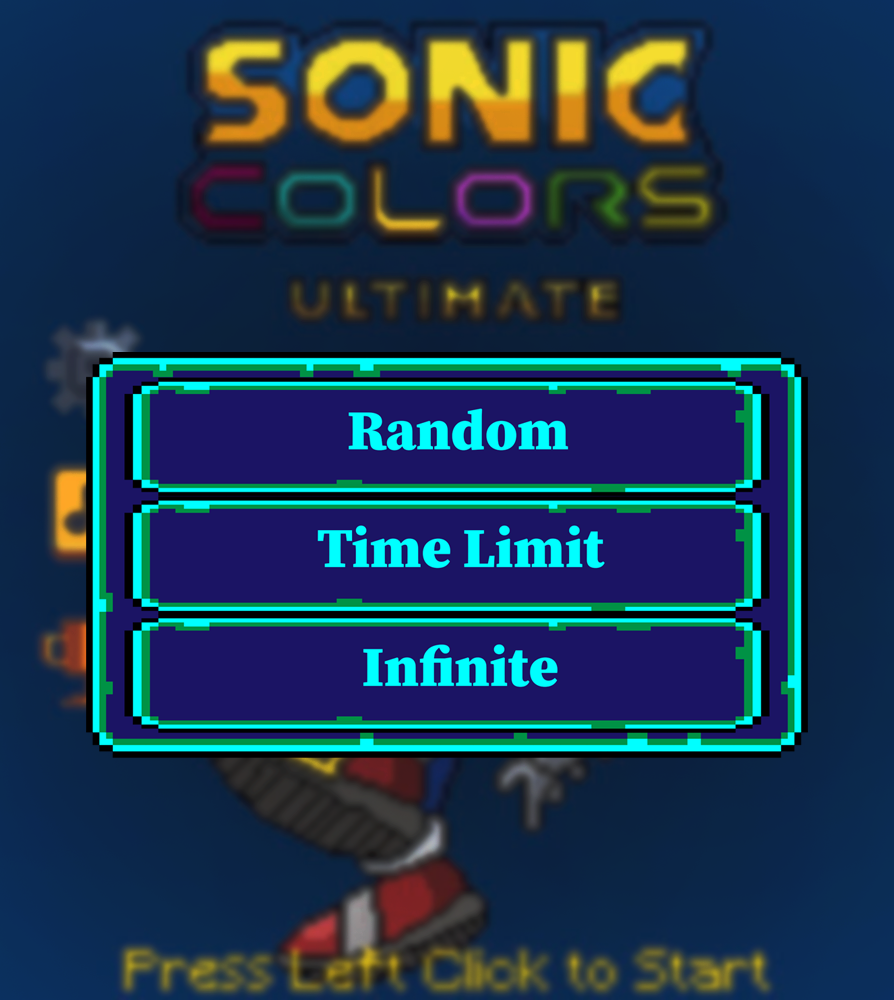
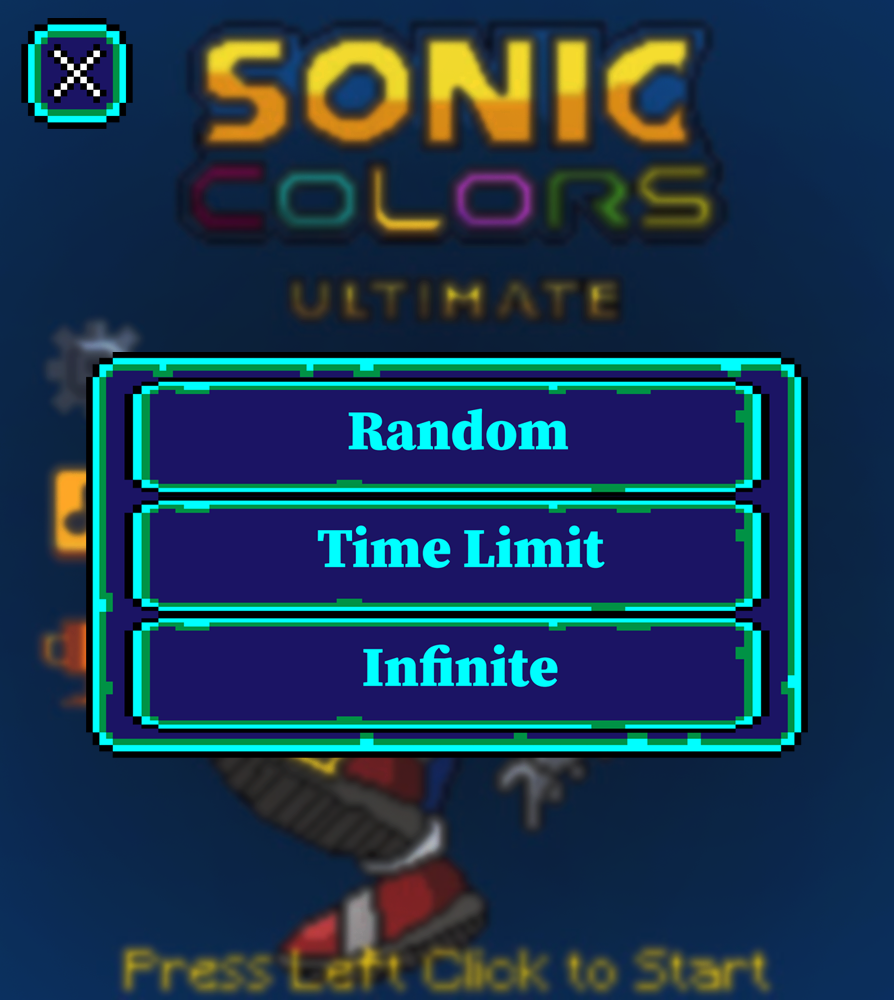
Adding Game mode menu.

Changed region(s): [[0.0, 0.0, 0.151, 0.155]]

diff --git a/main.cpp b/main.cpp
@@ -17,7 +17,7 @@
 #define HEIGHT 1000
 #define DotRadius 3
 #define DotDistance 7
-const int FONT_SIZE = 24;
+const int FONT_SIZE = 50;
 
 /// ******************* Changeable Constraints ****************
 int ballRadius = WIDTH / 30;
@@ -25,7 +25,7 @@ int FirstRowY ;
 int leveNumber = 5;
 double shootingBallSpeed = 25;
 int NUMROWS = 1;
-int numberOfTexture = 3;
+int numberOfTexture = 5;
 int impactUp = -6;
 double downSpeed = 0.1;
 int numberBall;
@@ -73,7 +73,8 @@ struct Node{
 enum GameMode {
     Random,
     TimeLimit,
-    Infinite
+    Infinite,
+    Menu
 };
 
 /// -------------------- Global struct Variables --------------------------------------------
@@ -106,7 +107,7 @@ SDL_Texture * bomb;
 Color Dot = {50, 70 , 120, 255};
 Color BackGround = {10, 20, 30, 220};
 std::unordered_map<SDL_Texture*, Color*> existingColor;
-
+std::string Username = "";
 
 SDL_Texture* gTextTexture = nullptr;
 //////////////////////////////////////////////////////////////////////////////////////
@@ -139,6 +140,7 @@ void renderText(SDL_Renderer* renderer, TTF_Font* gFont, const std::string& text
 void settingDisplay(SDL_Renderer * renderer, SDL_Window *window);
 bool isXandYInRect(int x, int y, double min_x, double min_y, double max_x, double max_y);
 Node * bombRadius();
+GameMode selectGameMode(SDL_Renderer * renderer, SDL_Window * window, TTF_Font * font);
 // ============= Implementation ===================================
 int main(int argc, char* argv[]) {
 //    srand(1);
@@ -184,8 +186,9 @@ int main(int argc, char* argv[]) {
                 if (event.button.button == SDL_BUTTON_LEFT) {
                     SDL_GetMouseState(&mouse_x, &mouse_y);
                     if ( mouse_y > (.94)*(double)(HEIGHT) && mouse_x > (0.12) * (double)(WIDTH) && mouse_x < (0.8) * (double)WIDTH){
-
-                        startGame(renderer, window, Random);
+                        GameMode sel =selectGameMode(renderer, window, gFont);
+                        if ( sel == Menu ) continue;
+                        startGame(renderer, window, sel);
                     } else if ( mouse_y >= (0.47)*(double)(HEIGHT) && mouse_y <= (0.56)*(double)(HEIGHT) && mouse_x <= (0.16)*(double)(WIDTH) && mouse_x >= (0.06)*(double)(WIDTH)){
                         isMusicStop = !isMusicStop;
                         if (!isMusicStop) {
@@ -200,15 +203,6 @@ int main(int argc, char* argv[]) {
                 }
             } else if (event.type == SDL_KEYUP && event.key.keysym.sym == SDLK_ESCAPE) {
                 quit = true;
-            }else if (event.type == SDL_KEYDOWN) {
-                if (event.key.keysym.sym == SDLK_RETURN) {
-                    std::cout << "Entered text: " << inputText << std::endl;
-                    inputText = "";
-                } else if (event.key.keysym.sym == SDLK_BACKSPACE && !inputText.empty()) {
-                    inputText.pop_back();
-                } else if ((event.key.keysym.sym >= SDLK_a && event.key.keysym.sym <= SDLK_z) || (event.key.keysym.sym >= SDLK_0 && event.key.keysym.sym <= SDLK_9)) {
-                    inputText += static_cast<char>(event.key.keysym.sym);
-                }
             }
         }
         // Play music if it's not playing
@@ -219,7 +213,6 @@ int main(int argc, char* argv[]) {
         SDL_SetRenderDrawColor(renderer, 255, 255, 255, 255);
         SDL_RenderClear(renderer);
         SDL_RenderCopy(renderer, menuBack, nullptr, &back);
-        renderText(renderer, gFont, "Enter text: " + inputText, 10, 10);
         addBarred(renderer, window, isMusicStop);
         SDL_RenderPresent(renderer);
     }
@@ -230,6 +223,87 @@ int main(int argc, char* argv[]) {
     Mix_CloseAudio();
     SDL_Quit();
     return 0;
+}
+GameMode selectGameMode(SDL_Renderer * renderer, SDL_Window * window, TTF_Font * font){
+    SDL_Texture* modeSel[2];
+    modeSel[0] = loadTexture(renderer, "..\\StartGame\\GameModeP.png");
+    if (modeSel == nullptr){
+        SDL_DestroyRenderer(renderer);
+        SDL_DestroyWindow(window);
+        IMG_Quit();
+        SDL_Quit();
+        exit(1);
+    }
+    modeSel[1] = loadTexture(renderer, "..\\StartGame\\username.png");
+    if (modeSel == nullptr){
+        SDL_DestroyRenderer(renderer);
+        SDL_DestroyWindow(window);
+        IMG_Quit();
+        SDL_Quit();
+        exit(1);
+    }
+    SDL_Rect back = {0, 0, WIDTH, HEIGHT};
+    SDL_Event event;
+    bool quit = false;
+    bool isUsername = false ;
+    GameMode mode = Menu;
+
+    std::string inputText = "";
+    int mouse_x, mouse_y;
+    while (!quit) {
+        // Handle events
+        while (SDL_PollEvent(&event)) {
+            if (event.type == SDL_QUIT) {
+            quit = true;
+            exit(2);
+            }else if(event.type == SDL_MOUSEBUTTONDOWN) {
+                if (event.button.button == SDL_BUTTON_LEFT ) {
+                    SDL_GetMouseState(&mouse_x, &mouse_y);
+                    std::cout << mouse_x << " " << mouse_y <<std::endl;
+                    if (isXandYInRect(mouse_x, mouse_y, 0.03, 0.02 , 0.14, 0.12 )){
+                        if ( !isUsername)
+                            return Menu;
+                        else
+                            isUsername = false;
+
+                    }else if (isXandYInRect(mouse_x, mouse_y, 0.17, 0.5, 0.83, 0.83)&& !isUsername){
+                        mode =  TimeLimit;
+                        isUsername = true;
+                    }else if (isXandYInRect(mouse_x, mouse_y, 0.17, 0.39, 0.83, 0.48)&& !isUsername){
+                        mode = Random;
+                        isUsername = true;
+                    }else if (isXandYInRect(mouse_x, mouse_y, 0.17, 0.62, 0.83, 0.8)&& !isUsername){
+                        mode =  Infinite;
+                        isUsername = true;
+                    }
+                }
+            }else if (event.type == SDL_KEYUP && event.key.keysym.sym == SDLK_ESCAPE) {
+                quit = true;
+                exit(2);
+            }else if (event.type == SDL_KEYDOWN && isUsername) {
+                if (event.key.keysym.sym == SDLK_RETURN || event.key.keysym.sym == SDLK_KP_ENTER) {
+                    Username = inputText;
+                    inputText = "";
+                    return mode;
+                } else if (event.key.keysym.sym == SDLK_BACKSPACE && !inputText.empty()) {
+                    inputText.pop_back();
+                } else if ((event.key.keysym.sym >= SDLK_a && event.key.keysym.sym <= SDLK_z) || (event.key.keysym.sym >= SDLK_0 && event.key.keysym.sym <= SDLK_9)) {
+                    inputText += static_cast<char>(event.key.keysym.sym);
+                }
+            }
+        }
+        SDL_SetRenderDrawColor(renderer, 255, 255, 255, 255);
+        SDL_RenderClear(renderer);
+        SDL_RenderCopy(renderer, modeSel[isUsername], nullptr, &back);
+        if (isUsername) {
+            renderText(renderer, font, "Username: " , 0.2*WIDTH, 0.430*HEIGHT);
+            renderText(renderer, font, inputText, 0.2*WIDTH, 0.5*HEIGHT);
+        }
+//
+        //SDL_Delay(10);
+        SDL_RenderPresent(renderer);
+    }
+    return mode;
 }
 void settingDisplay(SDL_Renderer * renderer, SDL_Window *window){
     SDL_Texture* settingPage = loadTexture(renderer, "..\\Setting\\setting.png");
@@ -508,7 +582,8 @@ void connectShootingBall(Node * target, int impactY, int impactX, double slope )
             exit(3);
         }
         Node * bombDestruction = bombRadius();
-        deleteBalls(bombDestruction);
+        if ( bombDestruction)
+            deleteBalls(bombDestruction);
         Mix_PlayMusic(music, 1);
     }
 }
@@ -573,10 +648,12 @@ Node * findFloatingBalls(){
         }
         ball = ball -> next;
     }
-    deleteBalls(floatingBalls);
+    if(floatingBalls)
+        deleteBalls(floatingBalls);
     return floatingBalls;
 }
 void deleteBalls(Node * sameColor){
+    if ( sameColor == nullptr ) return;
     Node * root = sameColor, * temp;
     while ( root != nullptr ){
         allBalls = deleteFromLinkedList(root->value, allBalls);
@@ -801,6 +878,8 @@ void drawBalls(SDL_Renderer *renderer){
             existingColor[root->value->texture] = &root->value->color;
         root = root -> next;
     }
+    Node * floatBalls = findFloatingBalls();
+//    if (floatBalls!= nullptr) deleteBalls(floatBalls);
 }
 void SDLInitialization(SDL_Renderer ** renderer, SDL_Window ** window, TTF_Font** gFont){
     if (SDL_Init(SDL_INIT_EVERYTHING) != 0) {
@@ -1236,28 +1315,28 @@ void addLastRowToLinkedList(Ball * root){
 }
 void setTexture(SDL_Renderer * renderer, SDL_Window * window){
     // --------------- setting the back ground color ----------------
-    SDL_Texture* background1 = loadTexture(renderer, "..\\Game Background/GameBack.jpg");
+    SDL_Texture* background1 = loadTexture(renderer, "..\\Game Background\\GameBack.jpg");
     if (background1 == nullptr){
         SDL_DestroyRenderer(renderer);
         SDL_DestroyWindow(window);
         IMG_Quit();
         SDL_Quit();
         exit(1);
-    }     SDL_Texture* background2 = loadTexture(renderer, "..\\Game Background/GameBack2.jpg");
+    }     SDL_Texture* background2 = loadTexture(renderer, "..\\Game Background\\GameBack2.jpg");
     if (background2 == nullptr){
         SDL_DestroyRenderer(renderer);
         SDL_DestroyWindow(window);
         IMG_Quit();
         SDL_Quit();
         exit(1);
-    }    SDL_Texture* background3 = loadTexture(renderer, "..\\Game Background/GameBack3.png");
+    }    SDL_Texture* background3 = loadTexture(renderer, "..\\Game Background\\GameBack3.png");
     if (background3 == nullptr){
         SDL_DestroyRenderer(renderer);
         SDL_DestroyWindow(window);
         IMG_Quit();
         SDL_Quit();
         exit(1);
-    }    SDL_Texture* background4 = loadTexture(renderer, "..\\Game Background/GameBack4.png");
+    }    SDL_Texture* background4 = loadTexture(renderer, "..\\Game Background\\GameBack4.png");
     if (background4 == nullptr){
         SDL_DestroyRenderer(renderer);
         SDL_DestroyWindow(window);
